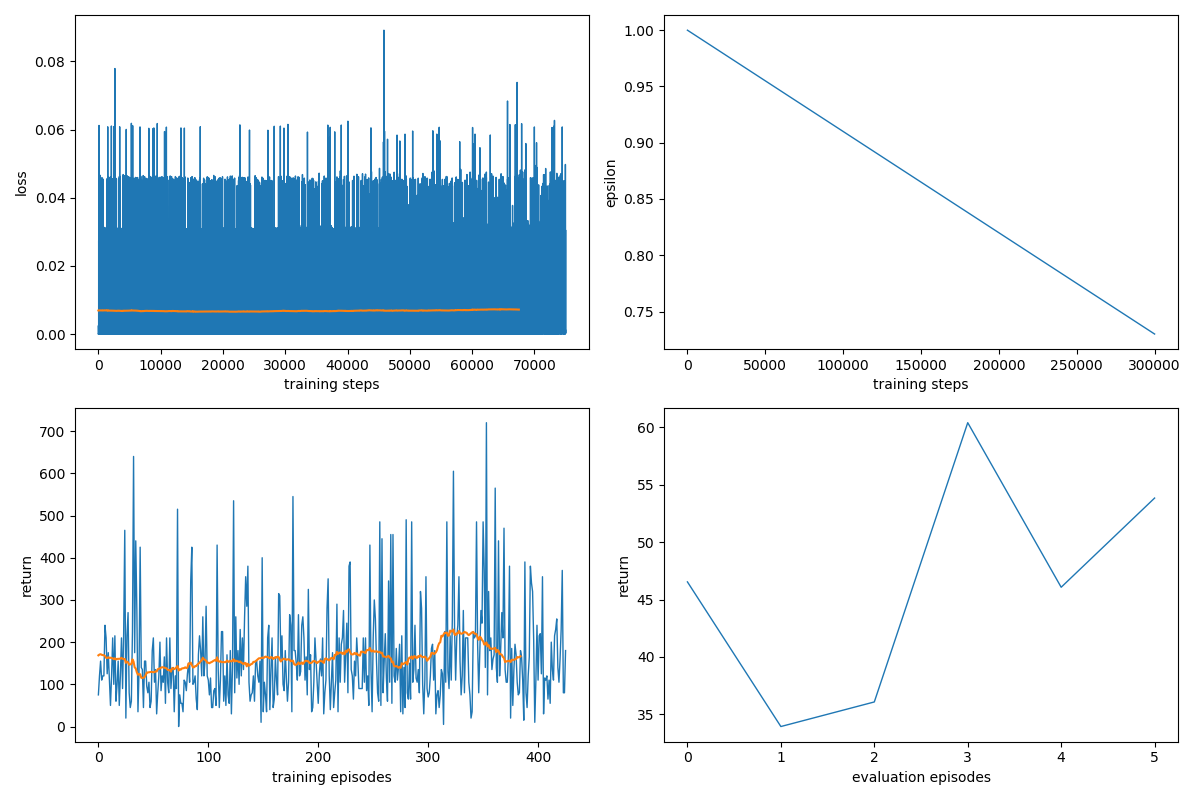
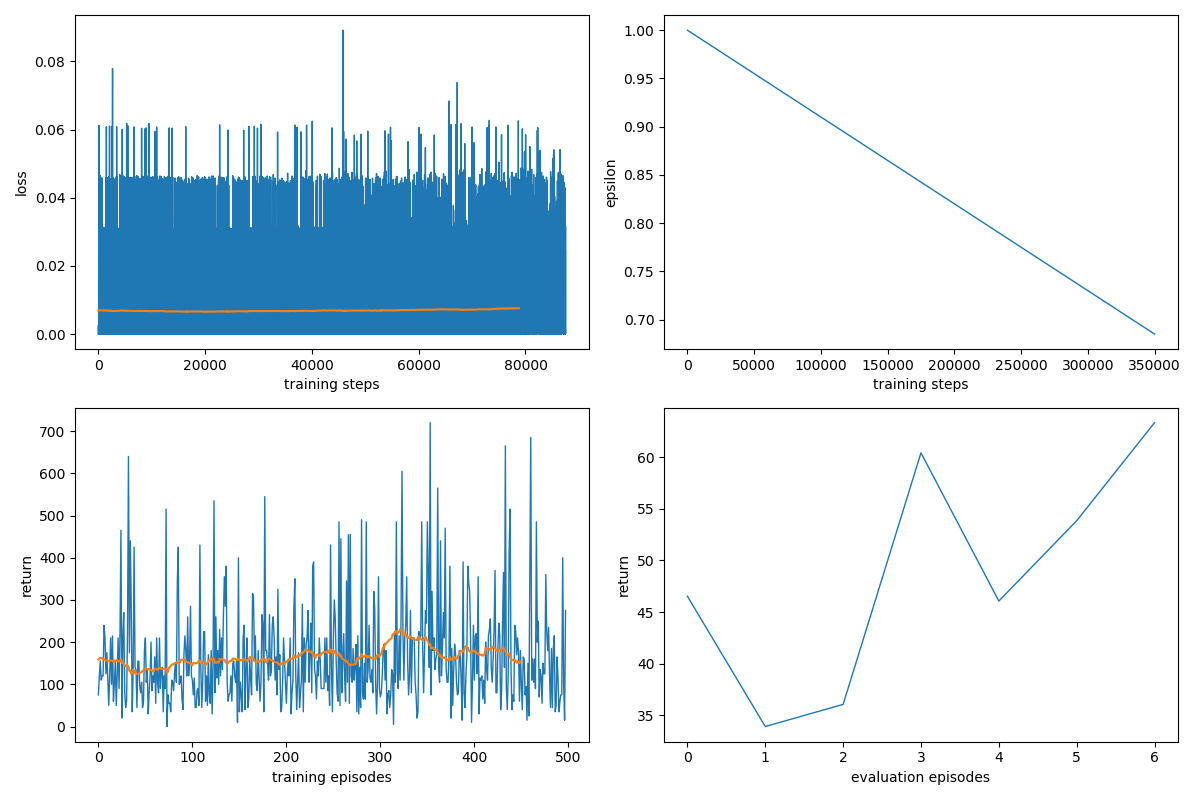
- new (intermediate) results

diff --git a/run/run.py b/run/run.py
@@ -38,8 +38,8 @@ print(f'path: {directory}')
 print(f'device: {device}')
 
 training_steps = 2000000  # 1000000  # 5000000
-evaluation_start = 50  # 10000    # 50000
-evaluation_steps = 100  # 5000     # 25000
+evaluation_start = 50000  # 10000    # 50000
+evaluation_steps = 10000  # 5000     # 25000
 
 
 def evaluate_model(model):
